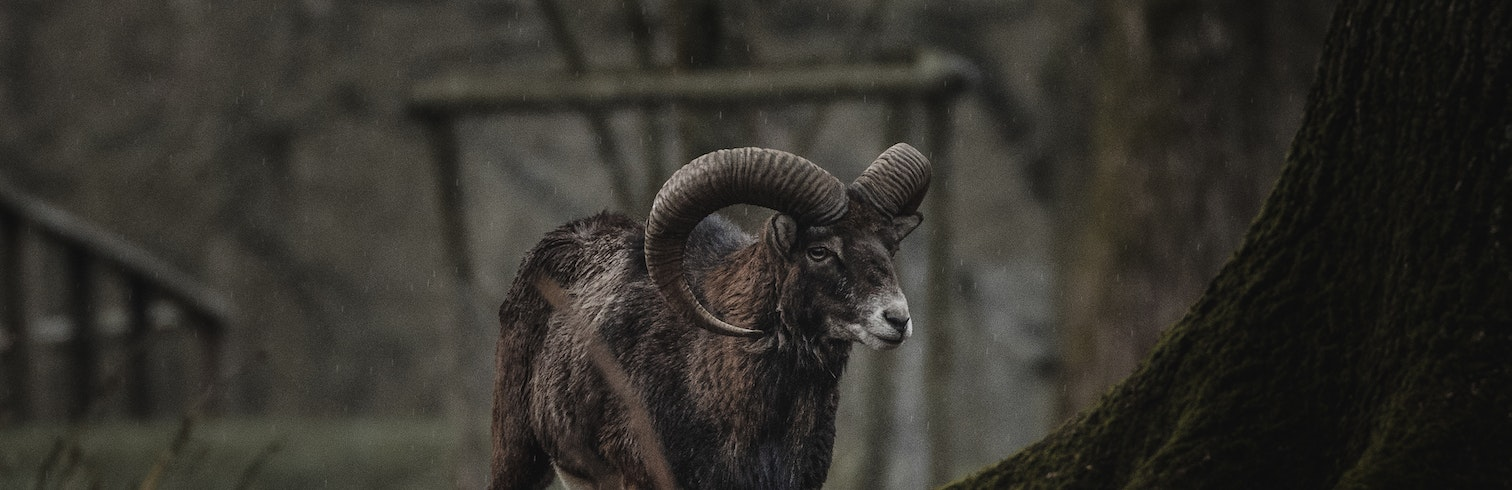
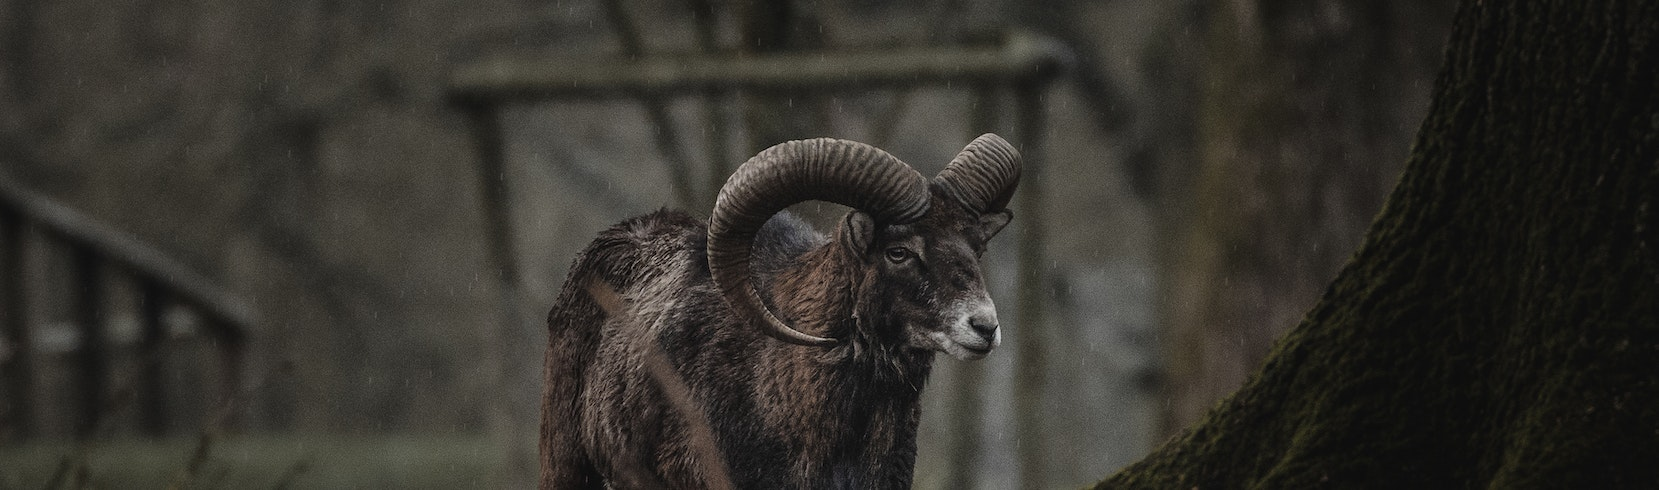
about Jubilee pagina afgerond, zowel qua code als styling en animatie

diff --git a/src/pages/aboutBible/AboutBible.jsx b/src/pages/aboutBible/AboutBible.jsx
@@ -1,7 +1,8 @@
 import React from 'react';
 import Image from "../../components/Image/Image";
-import Bijbel from "../../assets/aboutbible-pexels-johnmark-smith-272337.jpg";
 import AboutInput from "../../components/AboutInput/AboutInput";
+import styles from "./AboutBible.module.css";
+import schapen from "../../assets/about-sheeps-pexels-nazım-can-pirinç-11443337.jpg"
 
 const AboutBible = () => {
     return (
@@ -11,14 +12,13 @@ const AboutBible = () => {
                 paragraphOne="De Bijbel is een verzameling van zesenzestig boeken. Het zijn geen losse boeken, maar afgeronde Bijbelgedeelten die ieder een stuk van een groter verhaal vertellen. Te weten het verhaal van de Elohim JHWH (de God van Abraham, Isaak en Jacob) en Zijn plan om de gevallen schepping te redden van de gevolgen van de zondeval."
                 paragraphTwo=" “Heel de Schrift is door God ingegeven en is nuttig om daarmee te onderwijzen, te weerleggen, te verbeteren en op te voeden in de rechtvaardigheid, opdat de mens die God toebehoort, volmaakt zou zijn, tot elk goed werk volkomen toegerust.” - 2 Timoteüs 3:16 en 17 "
                 children=""
-                signature="Jubilee"
             >
-                <p>Meer leren over de Bijbel. Neem dan een kijkje op de website van The Bible Project. The Bible Project is een non-profit organisatie die geanimeerde video's en studiematerialen aanbiedt, om de Bijbel toegankelijk te maken voor iedereen. Naar de website van The Bible Project? Klik dan: </p>
-                <p><a target="_blank" href="https://bibleproject.com/Dutch/">hier.</a></p>
+                <p className={styles.about__p}>Meer leren over de Bijbel. Neem dan een kijkje op de website van The Bible Project. The Bible Project is een non-profit organisatie die geanimeerde video's en studiematerialen aanbiedt, om de Bijbel toegankelijk te maken voor iedereen. Naar de website van The Bible Project? Klik dan: </p>
+                <p><a className={styles.about__a} target="_blank" href="https://bibleproject.com/Dutch/">hier.</a></p>
             </AboutInput>
             <Image
-                image={Bijbel}
-                alt="Bijbel"
+                image={schapen}
+                alt="Afbeelding van schapen in een stal"
             />
         </>
     );

diff --git a/src/pages/aboutBible/AboutBible.module.css b/src/pages/aboutBible/AboutBible.module.css
@@ -1,0 +1,16 @@
+.about__p, .about__a{
+    display: flex;
+    flex-direction: row;
+    justify-content: center;
+    padding: 20px 10px;
+    margin: 20px 125px;
+    color: #002855;
+    font-size: 25px;
+    font-family: 'Inter', sans-serif;
+    text-align: center;
+    line-height: 50px;
+}
+
+.about__a{
+    color: #860E0E;
+}

diff --git a/src/components/Image/Image.module.css b/src/components/Image/Image.module.css
@@ -1,4 +1,3 @@
 .image{
     margin-bottom: 75px;
-
 }
